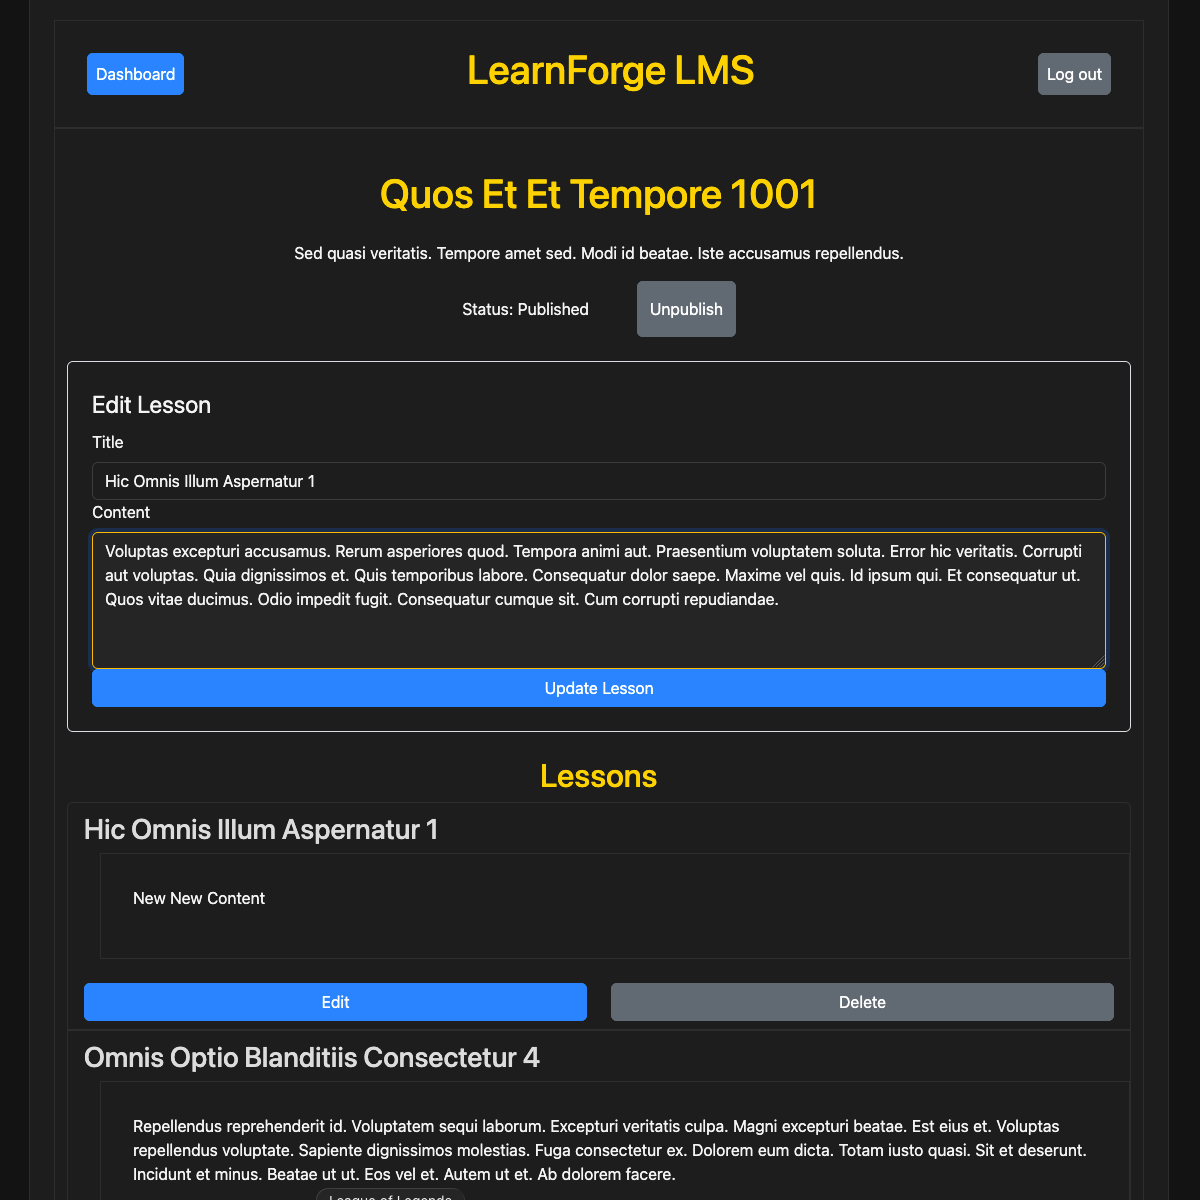
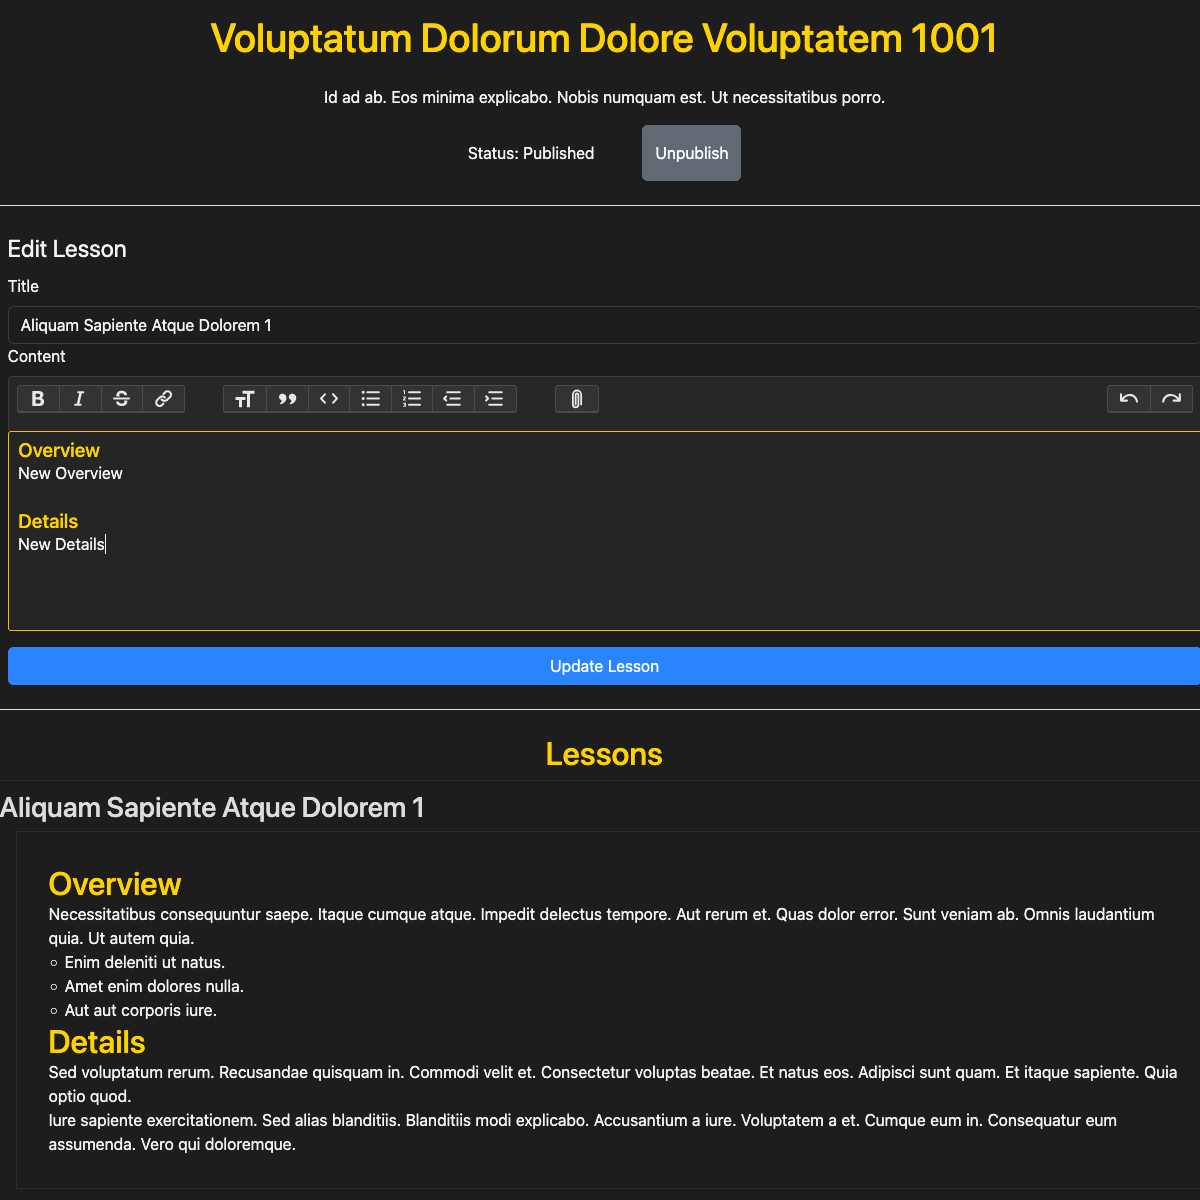
edit

diff --git a/content/projects/goth-dance-analyzer.md b/content/projects/goth-dance-analyzer.md
@@ -2,7 +2,7 @@
 title: "Goth Dance Analyzer"
 order: 6
 images:
-  - url: "/images/goth-dance-analyzer/skeleton_tracking.png"
+  - url: "/images/goth-dance-analyzer/skeleton_tracking.gif"
     alt: "Skeleton overlay tracking dancer pose landmarks"
   - url: "/images/goth-dance-analyzer/summary.png"
     alt: "Summary page with dancer fingerprints and archetypes"
